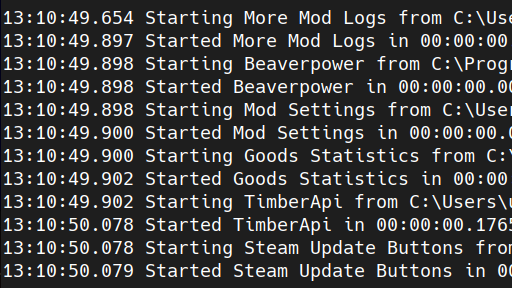
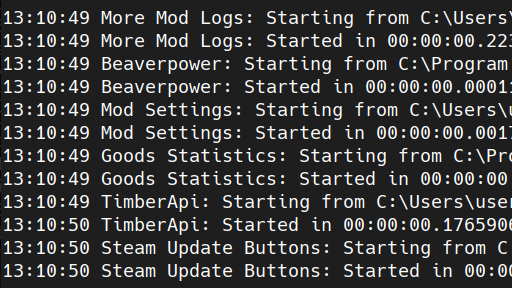
Prettify logs based on Discord feedback

Changed region(s): [[0.1875, 0.0312, 1.0, 0.9688]]

diff --git a/Starter.cs b/Starter.cs
@@ -6,17 +6,19 @@ using Timberborn.ModManagerScene;
 namespace Mods.SteamUpdateButtons {
   internal class ModStarter : IModStarter {
 
+    const string ModName = "More Mod Logs";
+
     public void StartMod() {
       StartMod(null);
     }
 
     public void StartMod(IModEnvironment modEnvironment) {
-      Debug.Log(DateTime.Now.ToString("HH:mm:ss.fff") + " Starting More Mod Logs from " + (modEnvironment?.ModPath ?? "an unknown location"));
+      Debug.Log(DateTime.Now.ToString("HH:mm:ss ") + ModName + ": Starting from " + (modEnvironment?.ModPath ?? "an unknown location"));
       var start = DateTime.Now;
-      var harmony = new Harmony("More Mod Logs");
+      var harmony = new Harmony(ModName);
       harmony.PatchAll();
       var duration = DateTime.Now - start;
-      Debug.Log(DateTime.Now.ToString("HH:mm:ss.fff") + " Started More Mod Logs in " + duration);
+      Debug.Log(DateTime.Now.ToString("HH:mm:ss ") + ModName + ": Started in " + duration);
     }
   }
 }

diff --git a/ModCodeStarterPatch.cs b/ModCodeStarterPatch.cs
@@ -10,13 +10,13 @@ namespace Mods.SteamUpdateButtons {
   [HarmonyPatch("StartMod")]
   static class ModCodeStarterPatch {
     static void Prefix(Mod mod, out DateTime __state) {
-      Debug.Log(DateTime.Now.ToString("HH:mm:ss.fff") + " Starting " + mod.DisplayName + " from " + mod.ModDirectory.Path);
+      Debug.Log(DateTime.Now.ToString("HH:mm:ss ") + mod.DisplayName + ": Starting from " + (mod?.ModDirectory.Path ?? "an unknown location"));
       __state = DateTime.Now;
     }
 
     static void Postfix(Mod mod, DateTime __state) {
       var duration = DateTime.Now - __state;
-      Debug.Log(DateTime.Now.ToString("HH:mm:ss.fff") + " Started " + mod.DisplayName + " in " + duration);
+      Debug.Log(DateTime.Now.ToString("HH:mm:ss ") + mod.DisplayName + ": Started in " + duration);
     }
   }
 }
